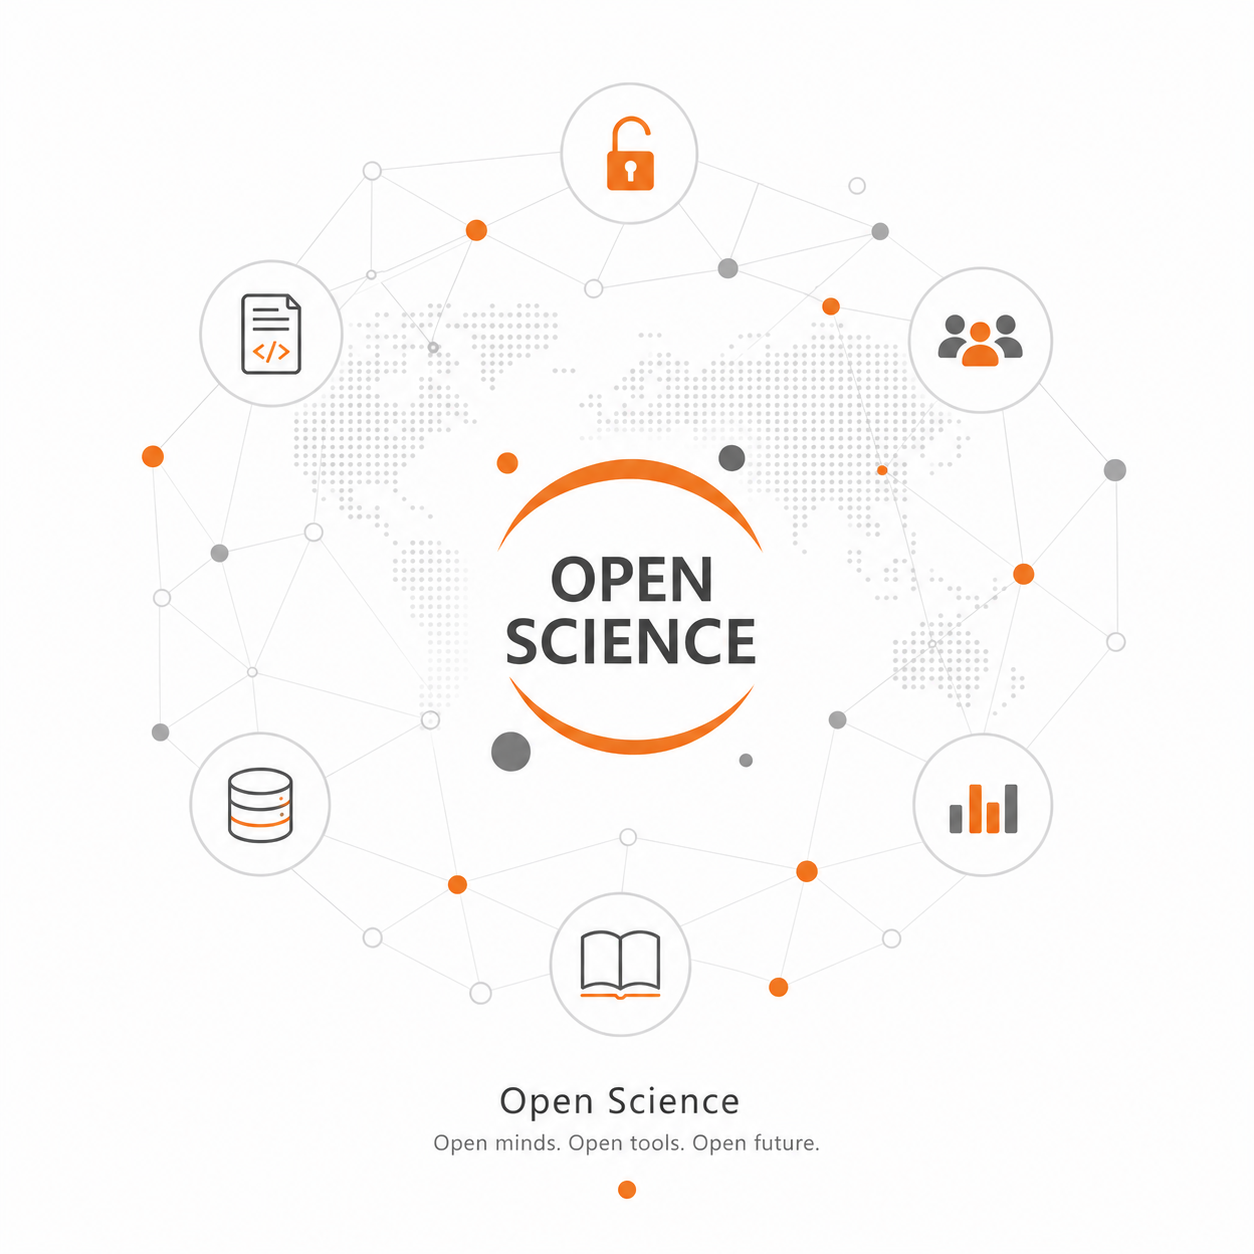
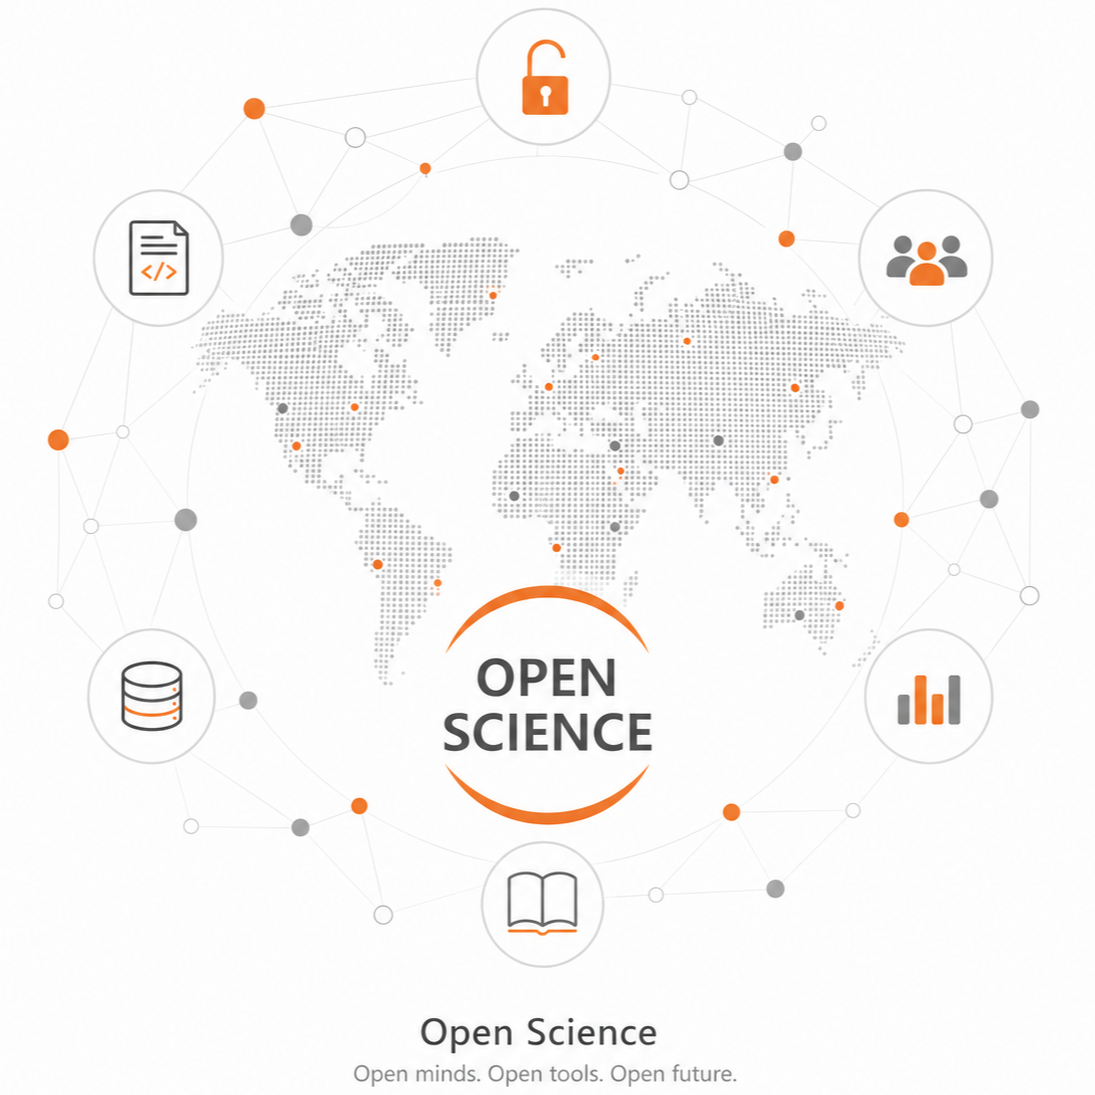
new figures

diff --git a/css/footer.css b/css/footer.css
@@ -95,9 +95,13 @@ body {
   align-items: center; /* 垂直居中对齐不同比例的徽标 */
 }
 
-/* 徽标长宽比差异大：只固定「外框」的最大宽高，由图片固有比例在框内自适应 */
+/* 徽标长宽比差异大：只固定「外框」的最大宽高，由图片固有比例在框内自适应
+ * （.image-grid：about 页；.org-logo-cloud：index 的 logo-cloud 块，勿对整块用 flex 以免破坏标题布局）
+ */
 .image-grid figure,
-.image-grid .figure {
+.image-grid .figure,
+.org-logo-cloud figure,
+.org-logo-cloud .figure {
   display: flex;
   align-items: center;
   justify-content: center;
@@ -106,7 +110,9 @@ body {
 }
 
 .image-grid figure img,
-.image-grid img {
+.image-grid img,
+.org-logo-cloud figure img,
+.org-logo-cloud img {
   display: block;
   max-height: 4.5rem; /* 约 72px，限制偏高徽标 */
   max-width: 10.5rem; /* 限制过宽字标，按宽高比自适配另一维 */

diff --git a/index.md b/index.md
@@ -19,25 +19,30 @@ An open-source knowledge database, interactive, neural network formation, with A
 
 +++
 
++++ {"kind": "centered", "class": "col-body"}
+
+Open knowledge for the AI era
+
 ## About Open Science
 
-We are building an open-science knowledge initiative at UC Berkeley BIDMaP. Our vision is a multilingual open knowledge infrastructure for STEM learning in the AI and LLM era. We aim to make scientific knowledge high-quality, authoritative, expert-edited, and freely accessible. This resource will be continuously updated for students, educators, and researchers worldwide. It is designed to benefit anyone, regardless of geography or educational resources. Using MOFs as an example, a learner will not only see individual topics but can also navigate across linked concepts. These include organic chemistry, characterization methods, and machine learning. Built on open-source tools from the Jupyter community, the platform offers textbook-style organization with interactive code, visualizations, downloadable notebooks, and LLM-based content support. It checks content accuracy, organizes frontier updates, and guides interpretation.
+Open Science is a community-built knowledge platform for learning, teaching, and exploring science without borders. We turn expert-edited STEM content into connected, multilingual, and interactive learning paths that anyone can use, extend, and improve.
+
+Start with one topic, such as MOFs, and follow the links outward: organic chemistry, characterization, machine learning, visualization, notebooks, datasets, and frontier research updates. Built with open-source tools from the Jupyter ecosystem, this project is designed to be readable by humans, executable by learners, and useful alongside modern AI systems.
 
 ![earth](./images/earth.png)
 
-:::{important} Our goals
+:::{important} What we stand for
 
-A de-centralized open-source community
+- Free access: no paywalls, no fees, no artificial barriers.
+- Global participation: no geographic gatekeeping, no geopolitical ownership of knowledge.
+- Community standards: open-source workflows, transparent review, and expert stewardship.
+- Multilingual learning: science should be understandable across languages and backgrounds.
+- AI-assisted, human-checked content: faster updates without giving up accuracy.
 
-- No geo-political issue
-- No fee, no barrier, no capital
-- Standard open-source community
-- Multi-language
-- Everyone in the world can use it
-- Scientific Community
-
-Just contribute  - for SCIENCE
+Contribute for science. Build with the world.
 :::
+
++++
 
 ## Our projects
 :::::{grid} 1 2 2 2
@@ -62,29 +67,24 @@ Just contribute  - for SCIENCE
 :::::
 
 
-+++ {"kind": "logo-cloud"}
++++ {"kind": "logo-cloud", "class": "org-logo-cloud"}
 
-Our Funders
+Our Supporters and Initiative Collaborators
 
 ::::{grid} 1 2 3 5
 
 :::{figure} ./images/org/sustech.png
-:height: 100px
 :::
 :::{figure} ./images/org/Berkeley.png
-:height: 100px
 :::
 
 :::{figure} ./images/org/Berkeley2.png
-:height: 100px
 :::
 
 :::{figure} ./images/org/bids.png
-:height: 100px
 :::
 
 :::{figure} ./images/org/jupyter.png
-:height: 100px
 :::
 ::::
 
